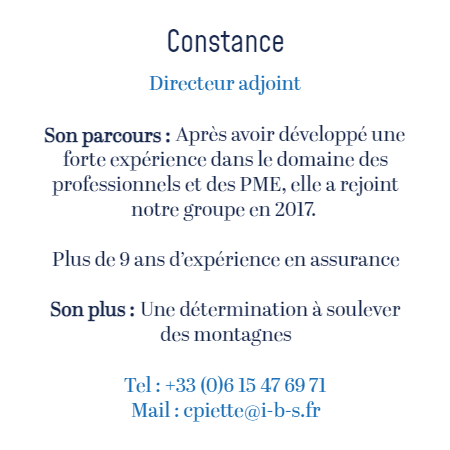
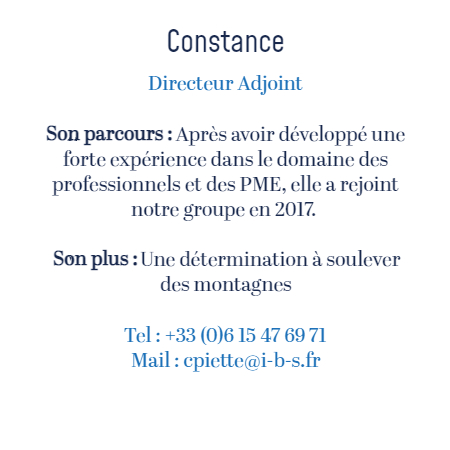
Add files via upload

diff --git a/index.html b/index.html
@@ -2,16 +2,8 @@
   <html>
     <head>
       <meta charset="UTF-8" />
-      <link
-        rel="stylesheet"
-        href="https://cdn.jsdelivr.net/npm/keen-slider@5.4.0/keen-slider.min.css"
-      />
-
       <link rel="stylesheet" href="./styles.css" />
 
-      <!-- GOOGLE FONT -->
-      <link rel="preconnect" href="https://fonts.gstatic.com">
-      <link href="https://fonts.googleapis.com/css2?family=Barlow+Condensed:wght@300;400;500;600;700&display=swap" rel="stylesheet">
     </head>
 
     <body>
